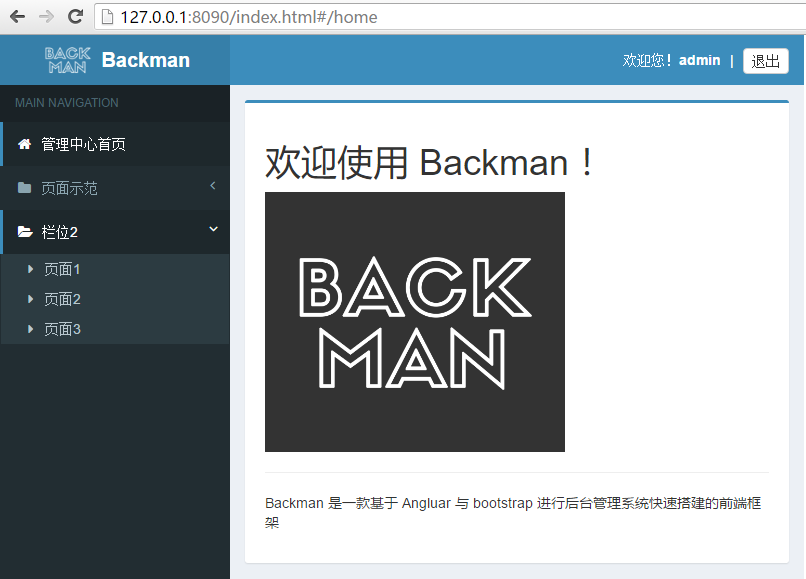
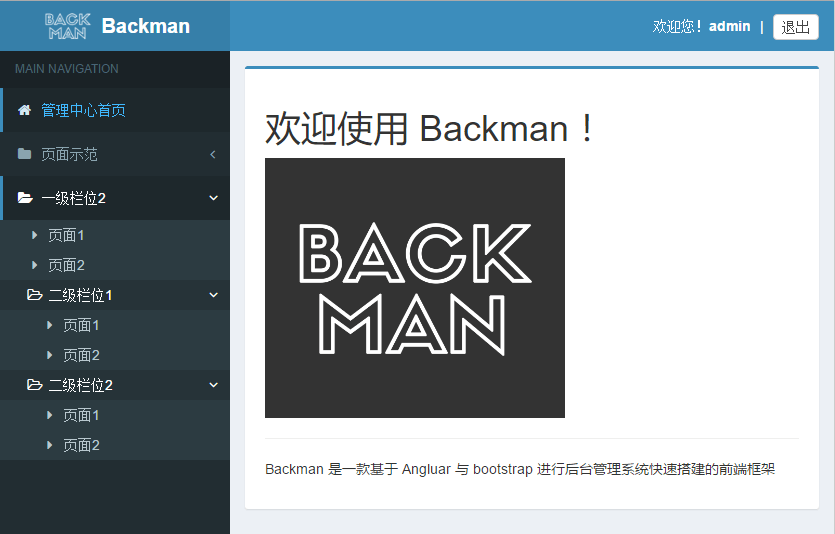
细节调整

Changed region(s): [[0.0, 0.0, 1.0, 1.0]]

diff --git a/build/backman/backman.min.js b/build/backman/backman.min.js
@@ -1,2 +1,2 @@
-var backman=angular.module("backman",["ui.router"]);backman.config(function($httpProvider,$urlRouterProvider,$controllerProvider,$compileProvider,$filterProvider,$provide){"use strict";$httpProvider.defaults.headers.put["Content-Type"]="application/x-www-form-urlencoded",$httpProvider.defaults.headers.post["Content-Type"]="application/x-www-form-urlencoded",$httpProvider.defaults.headers.post["X-Requested-With"]="XMLHttpRequest",$httpProvider.defaults.headers.get={"X-Requested-With":"XMLHttpRequest"},$httpProvider.defaults.transformRequest=[function(data){var param=function(obj){var name,value,fullSubName,subName,subValue,innerObj,i,query="";for(name in obj)if(obj.hasOwnProperty(name))if(value=obj[name],value instanceof Array)for(i=0;i<value.length;++i)subValue=value[i],fullSubName=name+"["+i+"]",innerObj={},innerObj[fullSubName]=subValue,query+=param(innerObj)+"&";else if(value instanceof Object)for(subName in value)value.hasOwnProperty(subName)&&(subValue=value[subName],fullSubName=name+"."+subName,innerObj={},innerObj[fullSubName]=subValue,query+=param(innerObj)+"&");else void 0!==value&&null!==value&&(query+=encodeURIComponent(name)+"="+encodeURIComponent(value)+"&");return query.length?query.substr(0,query.length-1):query};return angular.isObject(data)&&"[object File]"!==String(data)?param(data):data}],$compileProvider.aHrefSanitizationWhitelist(/^\s*(https?|ftp|mailto|tel|file|sms|javascript):/)}),backman.run(function($rootScope,$state,$stateParams){"use strict";$rootScope.$state=$state,$rootScope.$stateParams=$stateParams}),backman.module=function(name,dependences){"use strict";var app=angular.module(name,["backman"].concat(dependences));return app.config(function($controllerProvider,$compileProvider,$filterProvider,$provide){app.register={controller:$controllerProvider.register,directive:$compileProvider.directive,filter:$filterProvider.register,factory:$provide.factory,service:$provide.service}}),app},backman.factory("_responePreHandler",function(_tools){"use strict";return{success:function(success,config){if(20001!=success.data.state.code||!config||1!=config.noVerify){if(20001==success.data.state.code)return void(window.location.href="/usercenter/login-show");if(10200!=success.data.state.code&&10205!=success.data.state.code)return success.data.data=null,alert(success.msg||success.data&&success.data.state&&success.data.state.msg),null;if(10205==success.data.state.code)return{};var data=success.data.data?_tools.transKeyName("camel",success.data.data):{};return data.__state=success.data.state,data}},error:function(err){return err}}}),backman.factory("_httpPost",function($http,_tools,_responePreHandler,_setting){"use strict";return function(url,postData,config){return config&&config.ajaxParams||angular.extend(postData,_setting.ajaxParams),postData=_tools.transKeyName("underline",postData),$http({method:"POST",url:url,data:postData}).then(function(success){return _responePreHandler.success(success,config)},function(err){return _responePreHandler.error(err)})}}),backman.factory("_httpGet",function($http,_tools,_responePreHandler,_setting){"use strict";return function(url,getData,config){return config&&config.ajaxParams||angular.extend(getData,_setting.ajaxParams),getData=_tools.transKeyName("underline",getData),$http({method:"GET",url:url,params:getData}).then(function(success){return _responePreHandler.success(success,config)},function(err){return _responePreHandler.error(err)})}}),backman.factory("_setting",function($rootScope){"use strict";var _data={base:location.protocol+"//"+location.host,path:"",ajaxParams:null,navListUrl:""};return _data.navListUrl=_data.base+"/_data/navList.json",{get:function(key){return _data[key]},set:function(key,val){_data[key]=val}}}),backman.constant("_tools",function(){"use strict";var urlData=null,getUrlParam=function(name){if(!urlData){var url=window.location.href;urlData={};var arr=url.split("?");if(arr.length>1){arr=arr[1].split("&");for(var i=0,l=arr.length;i<l;i++){var a=arr[i].split("=");urlData[a[0]]=a[1]}urlData=transKeyName("camel",urlData)}}return urlData[name]},transKeyName=function(type,json){var toCamel=function(str){var str2="";if(str.indexOf("_")<0)str2=str;else{for(var words=str.split("_"),i=1;i<words.length;i++)words[i]=words[i].substr(0,1).toUpperCase()+words[i].substr(1);str2=words.join("")}return str2},toUnderline=function(str){var str2="";return str2=/[A-Z]/.test(str)?str.replace(/([A-Z])/g,function($1){return"_"+$1.toLowerCase()}):str},transform=function(json,json2){for(var p in json)if(json.hasOwnProperty(p)){var key;"string"==typeof p?"camel"==type?key=toCamel(p):"underline"==type&&(key=toUnderline(p)):key=p,json[p]instanceof Object?json2[key]=transform(json[p],"undefined"==typeof json[p].length?{}:[]):json2[key]=json[p]}return json2};return transform(json,"undefined"==typeof json.length?{}:[])},loadJs=function(jsList){return function($q,$rootScope){var deferred=$q.defer();return $script(jsList,function(){$rootScope.$apply(function(){deferred.resolve()})}),deferred.promise}};return{getUrlParam:getUrlParam,transKeyName:transKeyName,loadJs:loadJs}}()),backman.factory("_validate",function(){"use strict";return{isMobile:function(val){var rgx=/^(13[0-9]|14[0-9]|15[0-9]|18[0-9])\d{8}$/i;return rgx.test($.trim(val))},isRequired:function(val){return!!$.trim(val)},isMatchLength:function(val,len){return $.trim(val).length==len},isLengthInRange:function(val,arr){var len=$.trim(val).length;return len>=arr[0]&&len<=arr[1]},isInRange:function(val,arr){return val>=arr[0]&&val<=arr[1]},isIdCard:function(val){var rgx=/^[1-9]\d{5}[1-9]\d{3}((0\d)|(1[0-2]))(([0|1|2]\d)|3[0-1])\d{4}$/;return rgx.test($.trim(val))},isTheSame:function(val1,val2){return val1==val2},isCorrectPassword:function(val){var rgx=/^(?!\d+$)(?![a-z]+$).+$/i;return rgx.test($.trim(val))}}}),backman.controller("backmanFramework",function($scope,_setting){"use strict";$scope.sidebarOpen=!1,$scope.act={toggleSidebar:function(){$scope.sidebarOpen=!$scope.sidebarOpen}}}),backman.controller("backmanNavigation",function($scope,_setting,_httpPost,_httpGet){"use strict";var getNavData=function(cb,cberr){var apiAddress=_setting.get("navListUrl");_httpGet(apiAddress,{}).then(function(data){if("function"===$.type(cb)){for(var item1,navList=[],i=0;item1=data[i];i++)if(!item1.state&&!item1.hash){if("array"!=$.type(item1.children))item1.children=[];else for(var item2,j=0;item2=item1[j];j++)"array"!=$.type(item2.children)&&(item2.children=[]);navList.push(item1)}cb(navList)}},function(data){"function"===$.type(cberr)&&cberr(data)})},renderNavigation=function(data){data=data.sort(sortNavigation);for(var item,i=0;item=data[i];i++)item.children&&item.children.length&&item.children.sort(sortNavigation);$scope.navData=data},sortNavigation=function(item1,item2){return item1.order>item2.order};getNavData(renderNavigation),$scope.act={}}),backman.directive("bmSidebar",function(){return{scope:!1,restrict:"A",link:function($scope,iElm,iAttrs){iElm.on("click",".treeview-title",function(){var $this=$(this);$this.parent().hasClass("active")?$this.parent().removeClass("active").end().next("ul.treeview-menu").slideUp("fast"):$this.parent().addClass("active").end().next("ul.treeview-menu").slideDown("fast")});var navInitHandler=$scope.$watch("navData",function(newValue,oldValue){if(newValue){navInitHandler();var hash=window.location.hash;setTimeout(function(){iElm.find(".treeview-link").each(function(){var $this=$(this);if($this.attr("href")==hash){var $parent1=$this.parent().parent().show().parent().addClass("active");if($parent1.hasClass("treeview")){var $parent2=$parent1.parent().show().parent().addClass("active");$parent2.hasClass("treeview")&&$parent2.addClass("active")}}})},0)}})}}});
+var backman=angular.module("backman",["ui.router"]);backman.config(function($httpProvider,$urlRouterProvider,$controllerProvider,$compileProvider,$filterProvider,$provide){"use strict";$httpProvider.defaults.headers.put["Content-Type"]="application/x-www-form-urlencoded",$httpProvider.defaults.headers.post["Content-Type"]="application/x-www-form-urlencoded",$httpProvider.defaults.headers.post["X-Requested-With"]="XMLHttpRequest",$httpProvider.defaults.headers.get={"X-Requested-With":"XMLHttpRequest"},$httpProvider.defaults.transformRequest=[function(data){var param=function(obj){var name,value,fullSubName,subName,subValue,innerObj,i,query="";for(name in obj)if(obj.hasOwnProperty(name))if(value=obj[name],value instanceof Array)for(i=0;i<value.length;++i)subValue=value[i],fullSubName=name+"["+i+"]",innerObj={},innerObj[fullSubName]=subValue,query+=param(innerObj)+"&";else if(value instanceof Object)for(subName in value)value.hasOwnProperty(subName)&&(subValue=value[subName],fullSubName=name+"."+subName,innerObj={},innerObj[fullSubName]=subValue,query+=param(innerObj)+"&");else void 0!==value&&null!==value&&(query+=encodeURIComponent(name)+"="+encodeURIComponent(value)+"&");return query.length?query.substr(0,query.length-1):query};return angular.isObject(data)&&"[object File]"!==String(data)?param(data):data}],$compileProvider.aHrefSanitizationWhitelist(/^\s*(https?|ftp|mailto|tel|file|sms|javascript):/)}),backman.run(function($rootScope,$state,$stateParams){"use strict";$rootScope.$state=$state,$rootScope.$stateParams=$stateParams}),backman.module=function(name,dependences){"use strict";var app=angular.module(name,["backman"].concat(dependences));return app.config(function($controllerProvider,$compileProvider,$filterProvider,$provide){app.register={controller:$controllerProvider.register,directive:$compileProvider.directive,filter:$filterProvider.register,factory:$provide.factory,service:$provide.service}}),app},backman.factory("_responePreHandler",function(_tools){"use strict";return{success:function(success,config){if(20001!=success.data.state.code||!config||1!=config.noVerify){if(20001==success.data.state.code)return void(window.location.href="/usercenter/login-show");if(10200!=success.data.state.code&&10205!=success.data.state.code)return success.data.data=null,alert(success.msg||success.data&&success.data.state&&success.data.state.msg),null;if(10205==success.data.state.code)return{};var data=success.data.data?_tools.transKeyName("camel",success.data.data):{};return data.__state=success.data.state,data}},error:function(err){return err}}}),backman.factory("_httpPost",function($http,_tools,_responePreHandler,_setting){"use strict";return function(url,postData,config){return config&&config.ajaxParams||angular.extend(postData,_setting.ajaxParams),postData=_tools.transKeyName("underline",postData),$http({method:"POST",url:url,data:postData}).then(function(success){return _responePreHandler.success(success,config)},function(err){return _responePreHandler.error(err)})}}),backman.factory("_httpGet",function($http,_tools,_responePreHandler,_setting){"use strict";return function(url,getData,config){return config&&config.ajaxParams||angular.extend(getData,_setting.ajaxParams),getData=_tools.transKeyName("underline",getData),$http({method:"GET",url:url,params:getData}).then(function(success){return _responePreHandler.success(success,config)},function(err){return _responePreHandler.error(err)})}}),backman.factory("_setting",function($rootScope){"use strict";var _data={base:location.protocol+"//"+location.host,path:"",ajaxParams:null,navListUrl:""};return _data.navListUrl="_data/navList.json",{get:function(key){return _data[key]},set:function(key,val){_data[key]=val}}}),backman.constant("_tools",function(){"use strict";var urlData=null,getUrlParam=function(name){if(!urlData){var url=window.location.href;urlData={};var arr=url.split("?");if(arr.length>1){arr=arr[1].split("&");for(var i=0,l=arr.length;i<l;i++){var a=arr[i].split("=");urlData[a[0]]=a[1]}urlData=transKeyName("camel",urlData)}}return urlData[name]},transKeyName=function(type,json){var toCamel=function(str){var str2="";if(str.indexOf("_")<0)str2=str;else{for(var words=str.split("_"),i=1;i<words.length;i++)words[i]=words[i].substr(0,1).toUpperCase()+words[i].substr(1);str2=words.join("")}return str2},toUnderline=function(str){var str2="";return str2=/[A-Z]/.test(str)?str.replace(/([A-Z])/g,function($1){return"_"+$1.toLowerCase()}):str},transform=function(json,json2){for(var p in json)if(json.hasOwnProperty(p)){var key;"string"==typeof p?"camel"==type?key=toCamel(p):"underline"==type&&(key=toUnderline(p)):key=p,json[p]instanceof Object?json2[key]=transform(json[p],"undefined"==typeof json[p].length?{}:[]):json2[key]=json[p]}return json2};return transform(json,"undefined"==typeof json.length?{}:[])},loadJs=function(jsList){return function($q,$rootScope){var deferred=$q.defer();return $script(jsList,function(){$rootScope.$apply(function(){deferred.resolve()})}),deferred.promise}};return{getUrlParam:getUrlParam,transKeyName:transKeyName,loadJs:loadJs}}()),backman.factory("_validate",function(){"use strict";return{isMobile:function(val){var rgx=/^(13[0-9]|14[0-9]|15[0-9]|18[0-9])\d{8}$/i;return rgx.test($.trim(val))},isRequired:function(val){return!!$.trim(val)},isMatchLength:function(val,len){return $.trim(val).length==len},isLengthInRange:function(val,arr){var len=$.trim(val).length;return len>=arr[0]&&len<=arr[1]},isInRange:function(val,arr){return val>=arr[0]&&val<=arr[1]},isIdCard:function(val){var rgx=/^[1-9]\d{5}[1-9]\d{3}((0\d)|(1[0-2]))(([0|1|2]\d)|3[0-1])\d{4}$/;return rgx.test($.trim(val))},isTheSame:function(val1,val2){return val1==val2},isCorrectPassword:function(val){var rgx=/^(?!\d+$)(?![a-z]+$).+$/i;return rgx.test($.trim(val))}}}),backman.controller("backmanFramework",function($scope,_setting){"use strict";$scope.adminName=window.localStorage["adminName@"+window.location.href.split("#")[0]]||"anonymous",$scope.sidebarOpen=!1,$scope.act={toggleSidebar:function(){$scope.sidebarOpen=!$scope.sidebarOpen}}}),backman.controller("backmanNavigation",function($scope,_setting,_httpPost){"use strict";var getNavData=function(cb,cberr){var apiAddress=_setting.get("navListUrl");_httpPost(apiAddress,{}).then(function(data){if("function"===$.type(cb)){for(var item1,navList=[],i=0;item1=data[i];i++)if(!item1.state&&!item1.hash){if("array"!=$.type(item1.children))item1.children=[];else for(var item2,j=0;item2=item1[j];j++)"array"!=$.type(item2.children)&&(item2.children=[]);navList.push(item1)}cb(navList)}},function(data){"function"===$.type(cberr)&&cberr(data)})},renderNavigation=function(data){data=data.sort(sortNavigation);for(var item,i=0;item=data[i];i++)item.children&&item.children.length&&item.children.sort(sortNavigation);$scope.navData=data},sortNavigation=function(item1,item2){return item1.order>item2.order};getNavData(renderNavigation)}),backman.directive("bmSidebar",function(){return{scope:!1,restrict:"A",link:function($scope,iElm,iAttrs){iElm.on("click",".treeview-title",function(){var $this=$(this);$this.parent().hasClass("active")?$this.parent().removeClass("active").end().next("ul.treeview-menu").slideUp("fast"):$this.parent().addClass("active").end().next("ul.treeview-menu").slideDown("fast")});var navInitHandler=$scope.$watch("navData",function(newValue,oldValue){if(newValue){navInitHandler();var hash=window.location.hash;setTimeout(function(){iElm.find(".treeview-link").each(function(){var $this=$(this);if($this.attr("href")==hash){var $parent1=$this.parent().parent().show().parent().addClass("active");if($parent1.hasClass("treeview")){var $parent2=$parent1.parent().show().parent().addClass("active");$parent2.hasClass("treeview")&&$parent2.addClass("active")}}})},0)}})}}});
 //# sourceMappingURL=backman.min.js.map

diff --git a/build/backman/backman.css b/build/backman/backman.css
@@ -18,7 +18,10 @@ a {
     outline: none;
     text-decoration: none; }
 
-/* Layout */
+/**
+ * 基础布局 
+ * -------
+ */
 .wrapper {
   min-height: 100%;
   position: relative;
@@ -79,8 +82,10 @@ a {
     padding: 50px 0 0;
     margin-top: -50px; } }
 
+@charset "UTF-8";
 /*
- * Header
+ * 头部
+ * ----
  */
 .backman-header {
   position: relative;
@@ -156,8 +161,10 @@ a {
       .backman-header .navbar .navbar-right {
         padding-right: 0px; } }
 
+@charset "UTF-8";
 /*
- * Sidebar
+ * 导航栏
+ * ------
  */
 .backman-sidebar {
   position: absolute;
@@ -188,7 +195,8 @@ a {
     transform: translate(0, 0); } }
 
 /*
- * Sidebar menu 
+ * 导航栏菜单
+ * ---------
  */
 .sidebar-menu {
   list-style: none;
@@ -294,8 +302,9 @@ a {
     -ms-transform: rotate(-90deg);
     transform: rotate(-90deg); }
 
+@charset "UTF-8";
 /*
- * Skin: Blue
+ * 皮肤：蓝色
  * ----------
  */
 .skin-blue .backman-header .navbar {
@@ -375,6 +384,7 @@ a {
 @charset "UTF-8";
 /**
  * 表格
+ * ----
  */
 table:not(.table) {
   width: 100%;
@@ -437,6 +447,7 @@ table:not(.table) {
 
 /**
  * 输入元素
+ * -------
  */
 input[type="text"],
 input[type="password"],
@@ -833,6 +844,7 @@ input[type="number"][size="74"] {
 
 /**
  * 按钮基本
+ * -------
  */
 input[type="button"],
 input[type="submit"],
@@ -929,6 +941,7 @@ a[class*="btn-"][disabled] {
 
 /**
  * 按钮颜色
+ * -------
  * 依次是：文本色、背景色、边框色、悬停背景色、悬停边框色
  */
 input[type="button"].btn-default,
@@ -1053,6 +1066,7 @@ a.btn-warning:focus {
 
 /**
  * 其他元素
+ * -------
  */
 label {
   display: inline-block;

diff --git a/build/backman/backman.js b/build/backman/backman.js
@@ -183,7 +183,7 @@ backman.factory('_setting', function ($rootScope) {
         ajaxParams: null,
         navListUrl: ''
     };
-    _data.navListUrl = _data.base + '/_data/navList.json';
+    _data.navListUrl = '_data/navList.json';
 
     return {
         get: function (key) {
@@ -332,6 +332,9 @@ backman.controller('backmanFramework', function ($scope, _setting) {
 
     'use strict';
 
+    //左上角管理员名称
+    $scope.adminName = window.localStorage['adminName@' + window.location.href.split('#')[0]] || 'anonymous';
+
     //移动端导航栏显示隐藏
     $scope.sidebarOpen = false;
 
@@ -343,13 +346,13 @@ backman.controller('backmanFramework', function ($scope, _setting) {
     };
 
 });
-backman.controller('backmanNavigation', function ($scope, _setting, _httpPost, _httpGet) {
+backman.controller('backmanNavigation', function ($scope, _setting, _httpPost) {
 
     'use strict';
 
     var getNavData = function (cb, cberr) {
             var apiAddress = _setting.get('navListUrl');
-            _httpGet(apiAddress, {})
+            _httpPost(apiAddress, {})
                 .then(function (data) {
                     if ($.type(cb) === 'function') {
                         var navList = [];
@@ -393,9 +396,6 @@ backman.controller('backmanNavigation', function ($scope, _setting, _httpPost, _
             return item1.order > item2.order;
         };
     getNavData(renderNavigation);
-
-    $scope.act = {
-    }
 
 });
 backman.directive('bmSidebar', function () {

diff --git a/build/app/router.js b/build/app/router.js
@@ -21,15 +21,39 @@ angular
                 }
             })
             .state('demoBaseElm', {
-                url: '/demoBaseElm',
+                url: '/demo/baseElm',
                 views: {
                     'content': {
                         templateUrl: assest + '/views/base.html'
                     }
                 }
             })
+            .state('demoList', {
+                url: '/demo/list',
+                views: {
+                    'content': {
+                        templateUrl: assest + '/views/list.html'
+                    }
+                }
+            })
+            .state('demoList.detail', {
+                url: '/demo/detail/:id',
+                views: {
+                    'content': {
+                        templateUrl: assest + '/views/.html'
+                    }
+                }
+            })
+            .state('demoSubmit', {
+                url: '/demo/submit',
+                views: {
+                    'content': {
+                        templateUrl: assest + '/views/submit.html'
+                    }
+                }
+            })
             .state('demoBlank', {
-                url: '/demoBlank',
+                url: '/demo/blank',
                 views: {
                     'content': {
                         templateUrl: assest + '/views/blank.html'

diff --git a/src/css/element-base.scss b/src/css/element-base.scss
@@ -1,6 +1,6 @@
-@charset "UTF-8";
 /**
  * 表格
+ * ----
  */
 table:not(.table) {
     width: 100%;
@@ -67,8 +67,10 @@ table:not(.table) {
         }
     }
 }
+
 /**
  * 输入元素
+ * -------
  */
 @mixin inputNormals ($state) {
     input[type="text"]#{$state},
@@ -235,8 +237,10 @@ select:focus:invalid:focus {
         width: 13 + $inputsize * 7 + px;
     }
 }
+
 /**
  * 按钮基本
+ * -------
  */
 input[type="button"],
 input[type="submit"],
@@ -331,8 +335,10 @@ a[class*="btn-"][disabled] {
     box-shadow: none;
     opacity: 0.65;
 }
+
 /**
  * 按钮颜色
+ * -------
  * 依次是：文本色、背景色、边框色、悬停背景色、悬停边框色
  */
 $buttonTypes: ('default': (#444, #fff, #ccc, #e7e7e7, #adadad), 'primary': (#fff, #3c8dbc, #367fa9, #367fa9, #204d74), 'success': (#fff, #00a65a, #008d4c, #008d4c, #398439), 'info': (#fff, #00c0ef, #00acd6, #00acd6, #269abc), 'danger': (#fff, #dd4b39, #d73925, #d73925, #ac2925), 'warning': (#fff, #f39c12, #e08e0b, #e08e0b, #d58512));
@@ -359,8 +365,10 @@ $buttonColors in $buttonTypes {
         border-color: nth($buttonColors, 5);
     }
 }
+
 /**
  * 其他元素
+ * -------
  */
 label {
     display: inline-block;

diff --git a/build/app/views/detail.html b/build/app/views/detail.html
@@ -1,0 +1,27 @@
+<h1>列表页</h1>
+<hr />
+<p>待续...</p>
+
+<div>
+    <ul class="pagination" style="vertical-align: middle;">
+        <li>
+            <a href="javascript:void(0);" ng-click="pagegoFirst()">首页</a>
+        </li>
+        <li class="prev">
+            <a href="javascript:void(0);" ng-click="pagegoPrev()">上一页</a>
+        </li>
+        <li class="next">
+            <a href="javascript:void(0);" ng-click="pagegoNext()">下一页</a>
+        </li>
+        <li>
+            <a href="javascript:void(0);" ng-click="pagegoLast()">末页</a>
+        </li>
+    </ul>
+    &#12288;
+    <span class="form-inline ">
+        <span class="control-label">总记录：<span ng-bind="pagelist.total">2650</span>条</span>&nbsp;
+        <span class="control-label"><span ng-bind="pagelist.currentPage">1</span>/<span ng-bind="pagelist.lastPage">133</span></span>&nbsp;
+        <input type="number" class="form-control" size="8" ng-model="searchObj.linkpage" style="margin: 0;">
+        <input type="button" value="跳转" class="btn btn-primary" ng-click="pagegoNum()">
+    </span>
+</div>

diff --git a/src/controllers/navigation.js b/src/controllers/navigation.js
@@ -1,10 +1,10 @@
-backman.controller('backmanNavigation', function ($scope, _setting, _httpPost, _httpGet) {
+backman.controller('backmanNavigation', function ($scope, _setting, _httpPost) {
 
     'use strict';
 
     var getNavData = function (cb, cberr) {
             var apiAddress = _setting.get('navListUrl');
-            _httpGet(apiAddress, {})
+            _httpPost(apiAddress, {})
                 .then(function (data) {
                     if ($.type(cb) === 'function') {
                         var navList = [];
@@ -48,8 +48,5 @@ backman.controller('backmanNavigation', function ($scope, _setting, _httpPost, _
             return item1.order > item2.order;
         };
     getNavData(renderNavigation);
-
-    $scope.act = {
-    }
 
 });

diff --git a/build/index.html b/build/index.html
@@ -20,7 +20,7 @@
                     </a>
                     <nav class="navbar">
                         <a class="sidebar-toggle" ng-click="act.toggleSidebar()" href="javascript:;"></a>
-                        <div class="navbar-right">欢迎您！<strong>admin</strong> |
+                        <div class="navbar-right">欢迎您！<strong ng-bind="adminName"></strong> |
                             <a class="btn-default" ng-href="">退出</a>
                         </div>
                     </nav>

diff --git a/src/index.html b/src/index.html
@@ -20,7 +20,7 @@
                     </a>
                     <nav class="navbar">
                         <a class="sidebar-toggle" ng-click="act.toggleSidebar()" href="javascript:;"></a>
-                        <div class="navbar-right">欢迎您！<strong>admin</strong> |
+                        <div class="navbar-right">欢迎您！<strong ng-bind="adminName"></strong> |
                             <a class="btn-default" ng-href="">退出</a>
                         </div>
                     </nav>

diff --git a/build/app/views/base.html b/build/app/views/base.html
@@ -1,4 +1,5 @@
 <h1>常用标签元素样式</h1>
+<hr /> Backman 支持所有 Bootstrap3 的样式与功能，但是却又与 Bootstrap 有所不同，比如许多元素默认就被带上了样式，因此很多地方不再需要记忆繁多的 Bootstrap 样式名与页面结构，从而降低了新手的上手条件也提高了平均开发效率
 <br />
 <div>
     <h3>标题</h3>

diff --git a/src/controllers/framework.js b/src/controllers/framework.js
@@ -2,6 +2,9 @@ backman.controller('backmanFramework', function ($scope, _setting) {
 
     'use strict';
 
+    //左上角管理员名称
+    $scope.adminName = window.localStorage['adminName@' + window.location.href.split('#')[0]] || 'anonymous';
+
     //移动端导航栏显示隐藏
     $scope.sidebarOpen = false;
 

diff --git a/src/services/setting.js b/src/services/setting.js
@@ -8,7 +8,7 @@ backman.factory('_setting', function ($rootScope) {
         ajaxParams: null,
         navListUrl: ''
     };
-    _data.navListUrl = _data.base + '/_data/navList.json';
+    _data.navListUrl = '_data/navList.json';
 
     return {
         get: function (key) {
